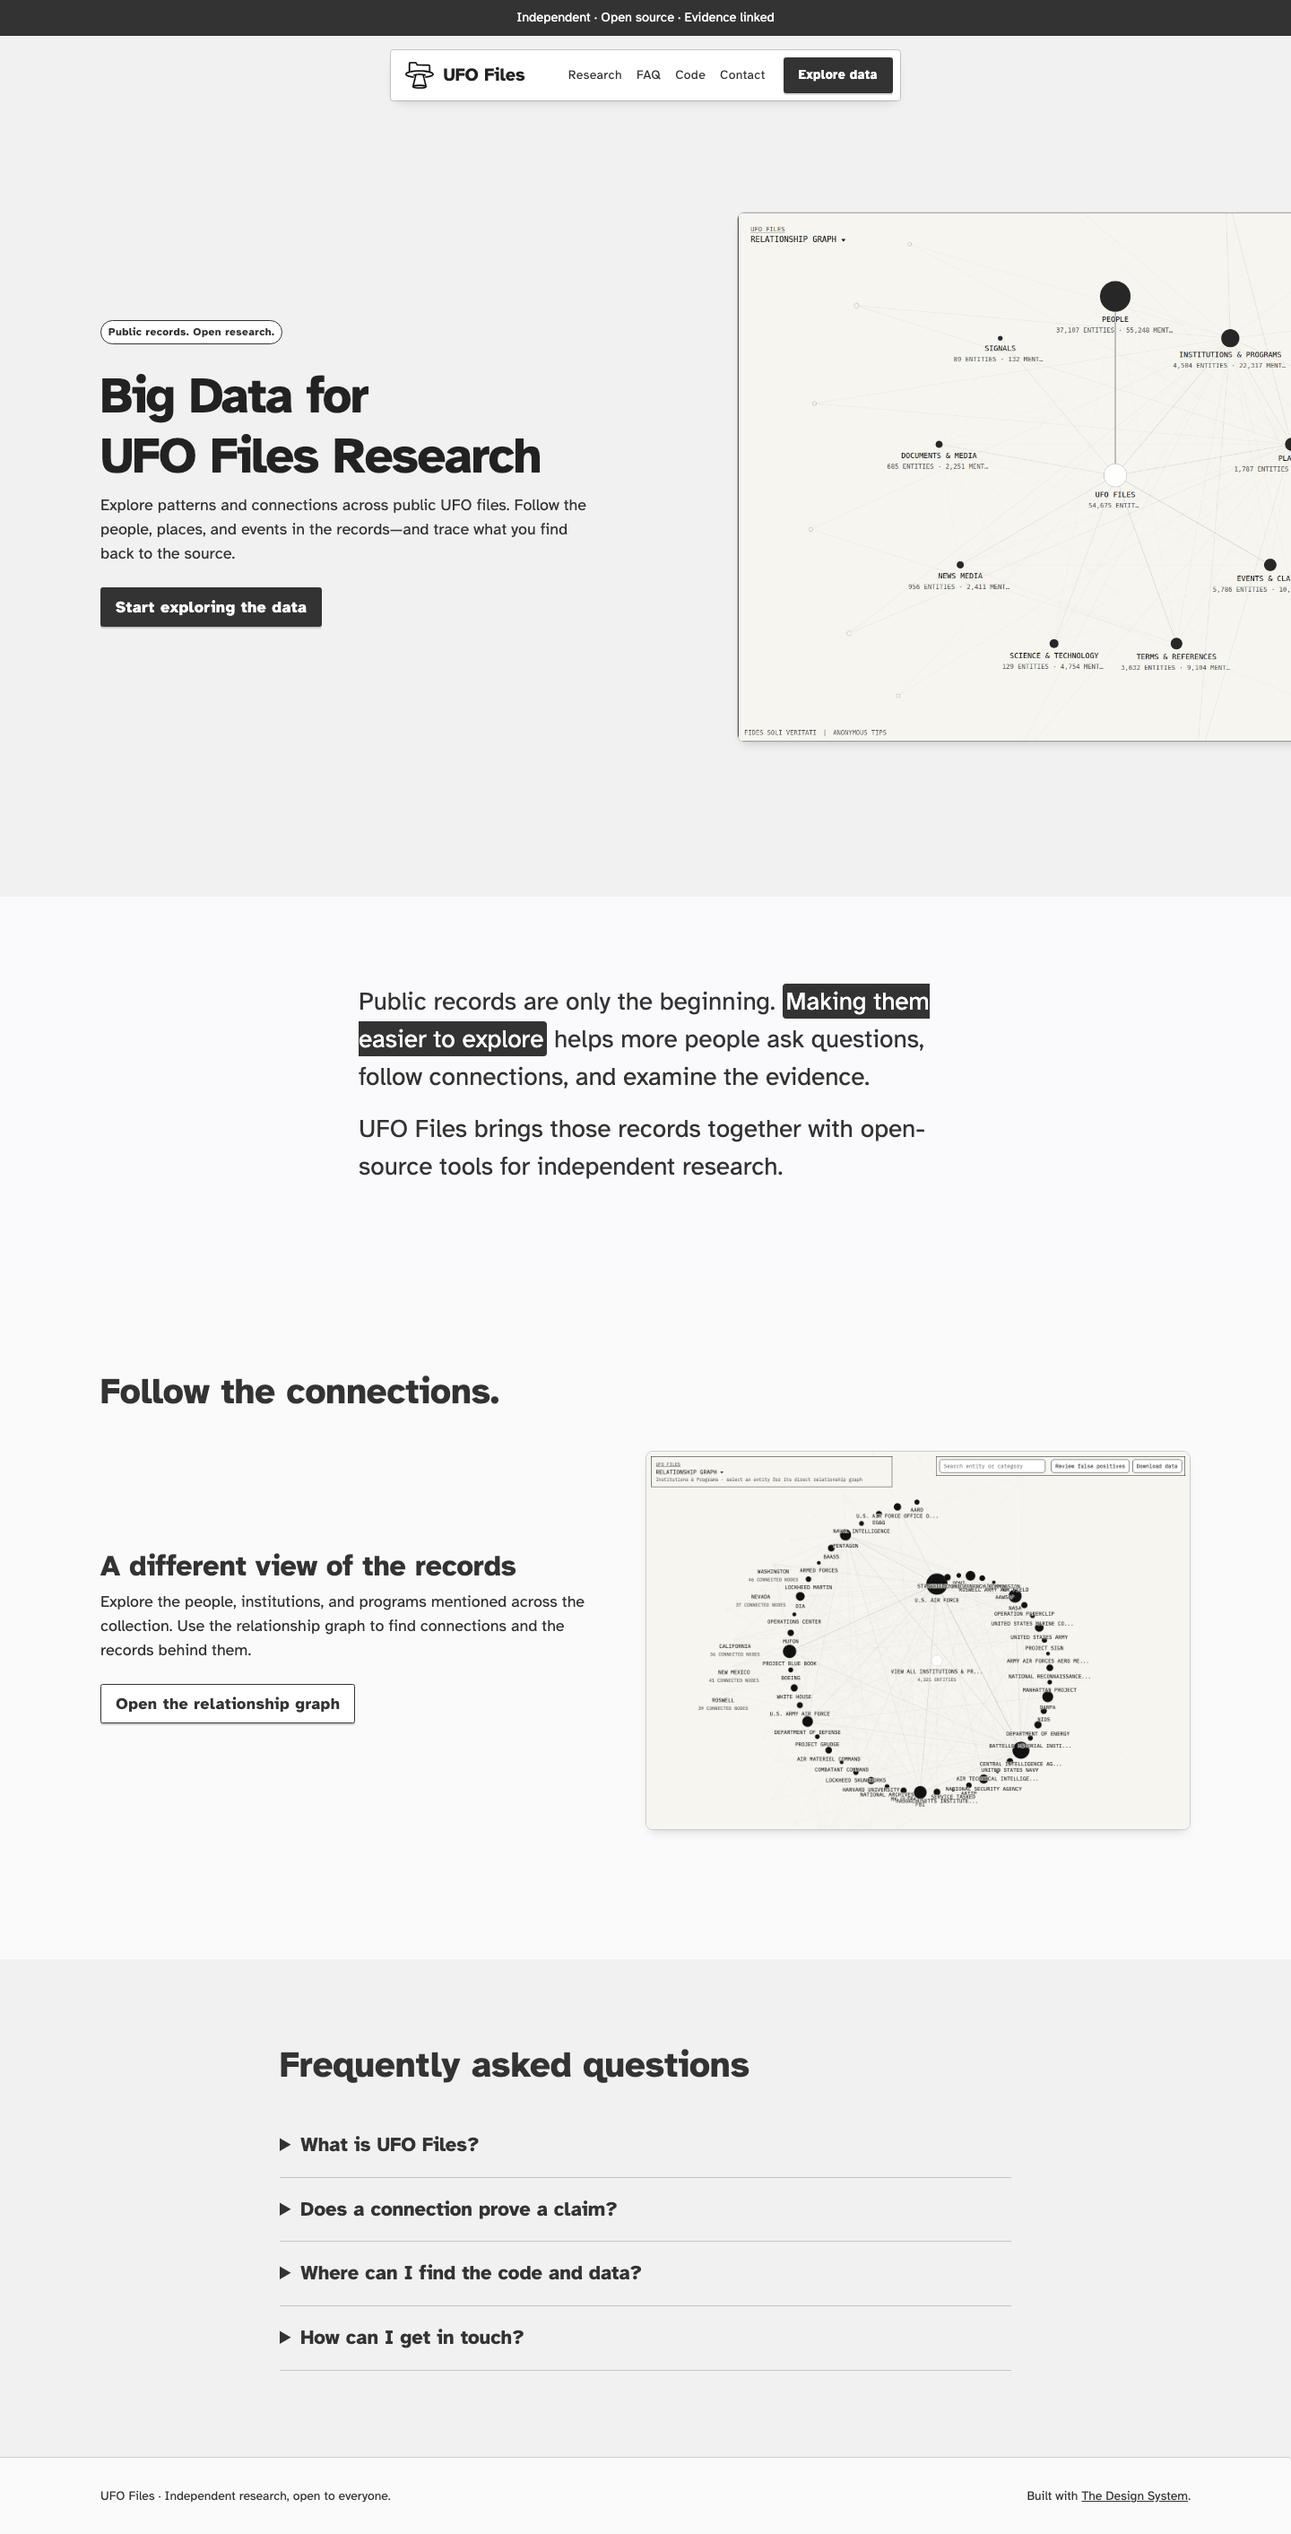
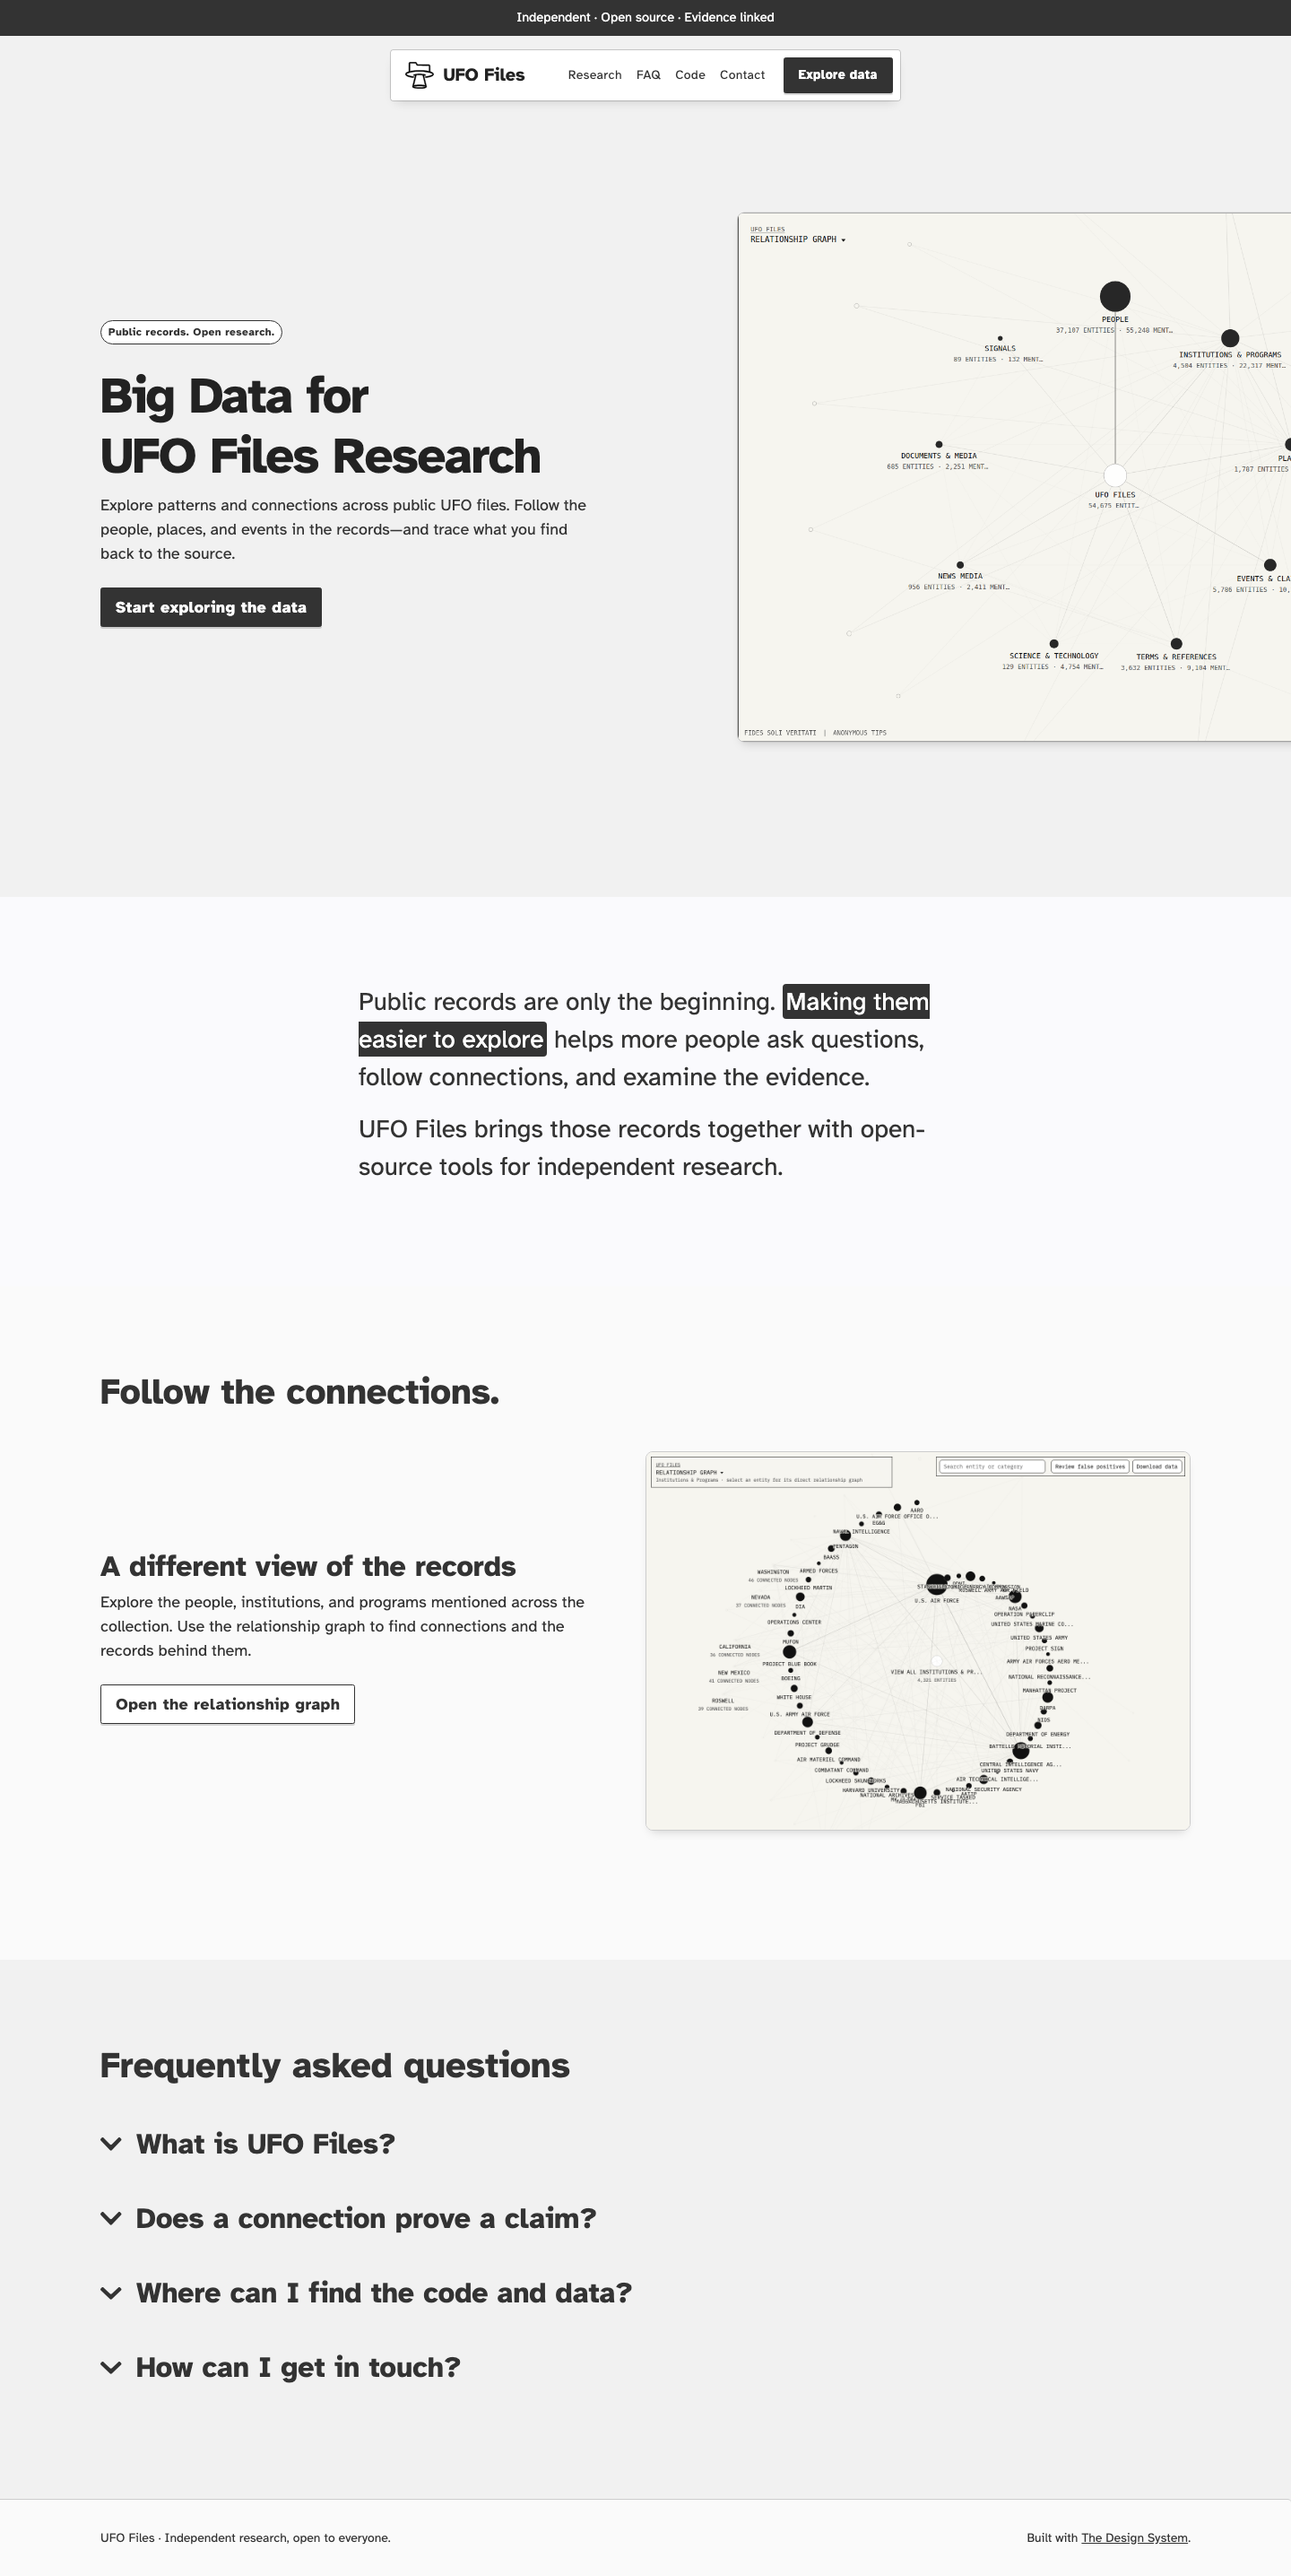
Restore original template FAQ chevrons and styling

diff --git a/index.html b/index.html
@@ -66,24 +66,34 @@
       </div>
     </section>
     <section id="faq" aria-labelledby="faq-title">
-      <div class="wrapper faq-wrapper">
+      <div class="wrapper">
         <h2 id="faq-title">Frequently asked questions</h2>
-        <details>
-          <summary>What is UFO Files?</summary>
+        <div class="faq-list">
+        <details name="faq">
+          <summary class="faq-question"><img class="arrow" src="src/img/icon-chevron.svg" alt=""><h3>What is UFO Files?</h3></summary>
+          <div class="faq-answer">
           <p>UFO Files is an independent project that makes public UFO records easier to explore through open-source research tools.</p>
+          </div>
         </details>
-        <details>
-          <summary>Does a connection prove a claim?</summary>
+        <details name="faq">
+          <summary class="faq-question"><img class="arrow" src="src/img/icon-chevron.svg" alt=""><h3>Does a connection prove a claim?</h3></summary>
+          <div class="faq-answer">
           <p>No. A connection is a starting point for research. Check the underlying records, their context, and the quality of the evidence before drawing a conclusion.</p>
+          </div>
         </details>
-        <details>
-          <summary>Where can I find the code and data?</summary>
+        <details name="faq">
+          <summary class="faq-question"><img class="arrow" src="src/img/icon-chevron.svg" alt=""><h3>Where can I find the code and data?</h3></summary>
+          <div class="faq-answer">
           <p>Visit the <a href="https://github.com/ufo-files/relationship-graph-builder">relationship graph repository</a> for the research tool and the <a href="https://github.com/ufo-files/machine-data">machine data repository</a> for transcripts and derived data.</p>
+          </div>
         </details>
-        <details>
-          <summary>How can I get in touch?</summary>
+        <details name="faq">
+          <summary class="faq-question"><img class="arrow" src="src/img/icon-chevron.svg" alt=""><h3>How can I get in touch?</h3></summary>
+          <div class="faq-answer">
           <p>Send a message through <a href="https://tips.hushline.app/to/ufo-files">our Hush Line</a> to share feedback or contact the project.</p>
+          </div>
         </details>
+        </div>
       </div>
     </section>
   </main>

diff --git a/styles.css b/styles.css
@@ -22,10 +22,19 @@ header nav .primaryBtn { margin-left: 1.25rem; }
 .feature { width: 100%; }
 .feature .wrapper { margin-inline: auto; }
 .feature img { height: auto; border: var(--border); border-radius: .5rem; box-shadow: var(--shadow); }
-.faq-wrapper { max-width: 880px; }
-details { border-bottom: var(--border); padding: 1.25rem 0; }
-summary { cursor: pointer; font-family: var(--font-sans-bold); font-size: 1.375rem; line-height: 1.4; }
-details p { margin: 1rem 0 0; max-width: 42rem; }
+/* Keep the template's FAQ typography, spacing, and chevron artwork. */
+.faq-list { max-width: 640px; }
+.faq-list details { margin: 1rem 0; }
+.faq-question { list-style: none; }
+.faq-question::-webkit-details-marker { display: none; }
+.faq-question::marker { content: ""; }
+.faq-question h3 { margin: 0; }
+.faq-question .arrow { flex-shrink: 0; }
+details[open] > .faq-question .arrow { transform: rotate(-180deg); }
+details[open] > .faq-answer { display: block; }
+@media (prefers-reduced-motion: reduce) {
+  .arrow { transition: none; }
+}
 footer { width: 100%; padding: 2rem 0; border-top: var(--border); }
 .footer-inner { display: flex; justify-content: space-between; gap: 1rem; }
 footer p { font-size: var(--font-size-small); }
